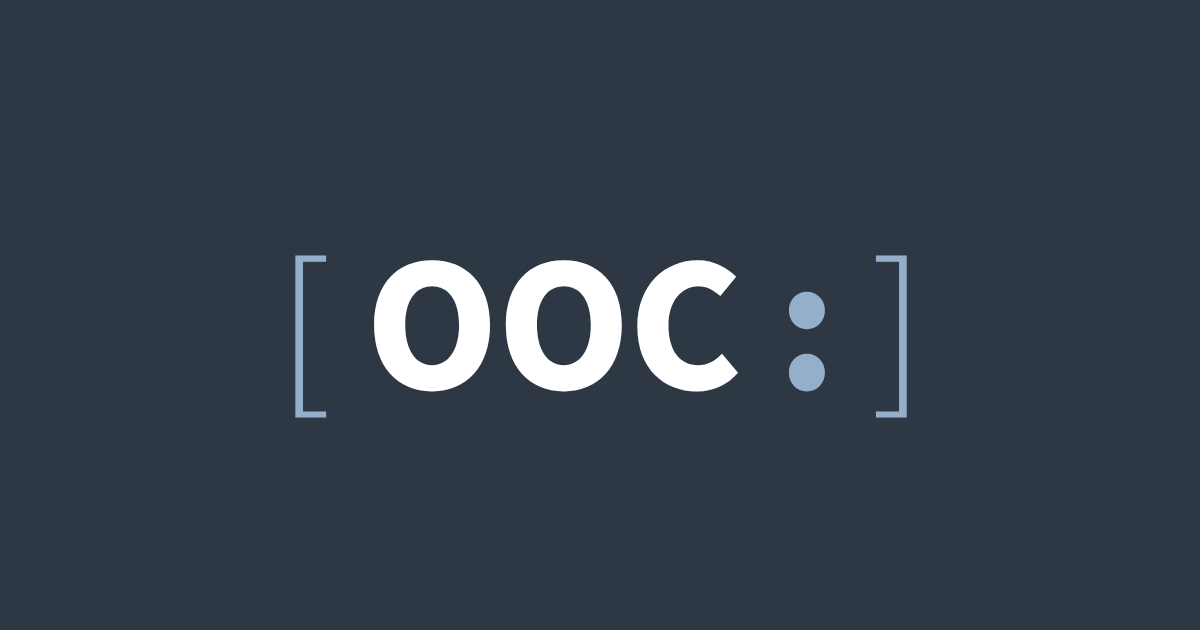
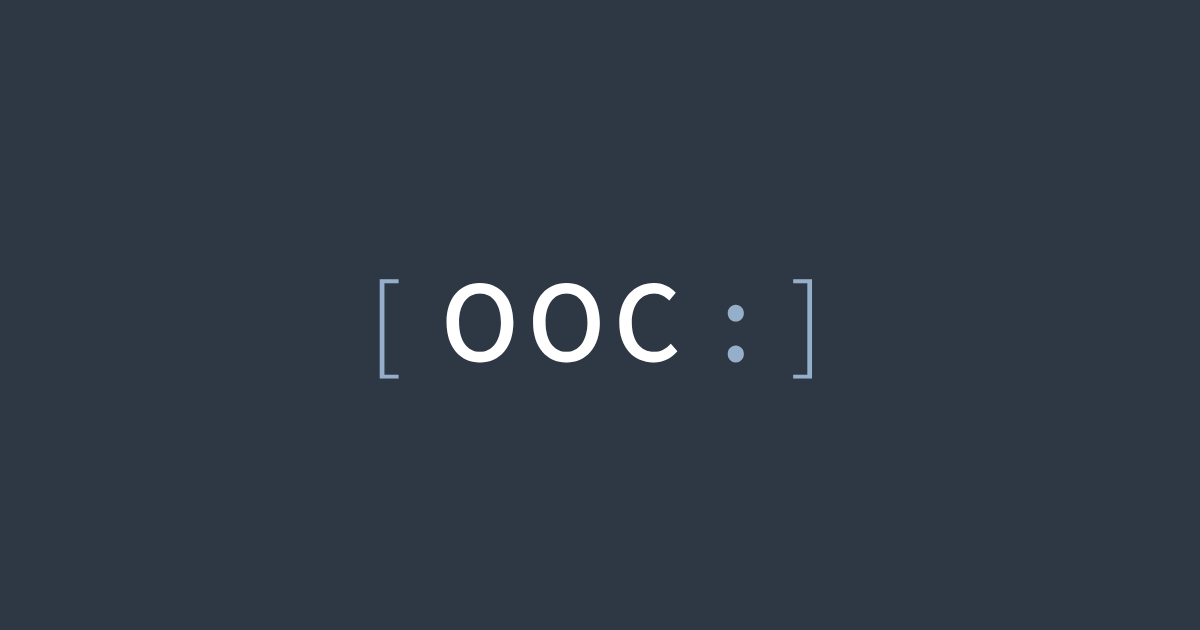
공유 이미지 글씨 얇고 작게
Claude-Session: https://claude.ai/code/session_01EEJ9Uzj9h8dtNwgu3pRPky

diff --git a/index.html b/index.html
@@ -7,11 +7,11 @@
 <meta property="og:title" content="OOC 메이커">
 <meta property="og:type" content="website">
 <meta property="og:url" content="https://dengdeng-ai.github.io/ooc-maker/">
-<meta property="og:image" content="https://dengdeng-ai.github.io/ooc-maker/og.png?v=2">
+<meta property="og:image" content="https://dengdeng-ai.github.io/ooc-maker/og.png?v=3">
 <meta property="og:image:width" content="1200">
 <meta property="og:image:height" content="630">
 <meta name="twitter:card" content="summary_large_image">
-<meta name="twitter:image" content="https://dengdeng-ai.github.io/ooc-maker/og.png?v=2">
+<meta name="twitter:image" content="https://dengdeng-ai.github.io/ooc-maker/og.png?v=3">
 <link rel="icon" href="favicon.svg?v=3" type="image/svg+xml">
 <link rel="icon" href="favicon-32.png?v=3" type="image/png" sizes="32x32">
 <link rel="apple-touch-icon" href="apple-touch-icon.png?v=3">
